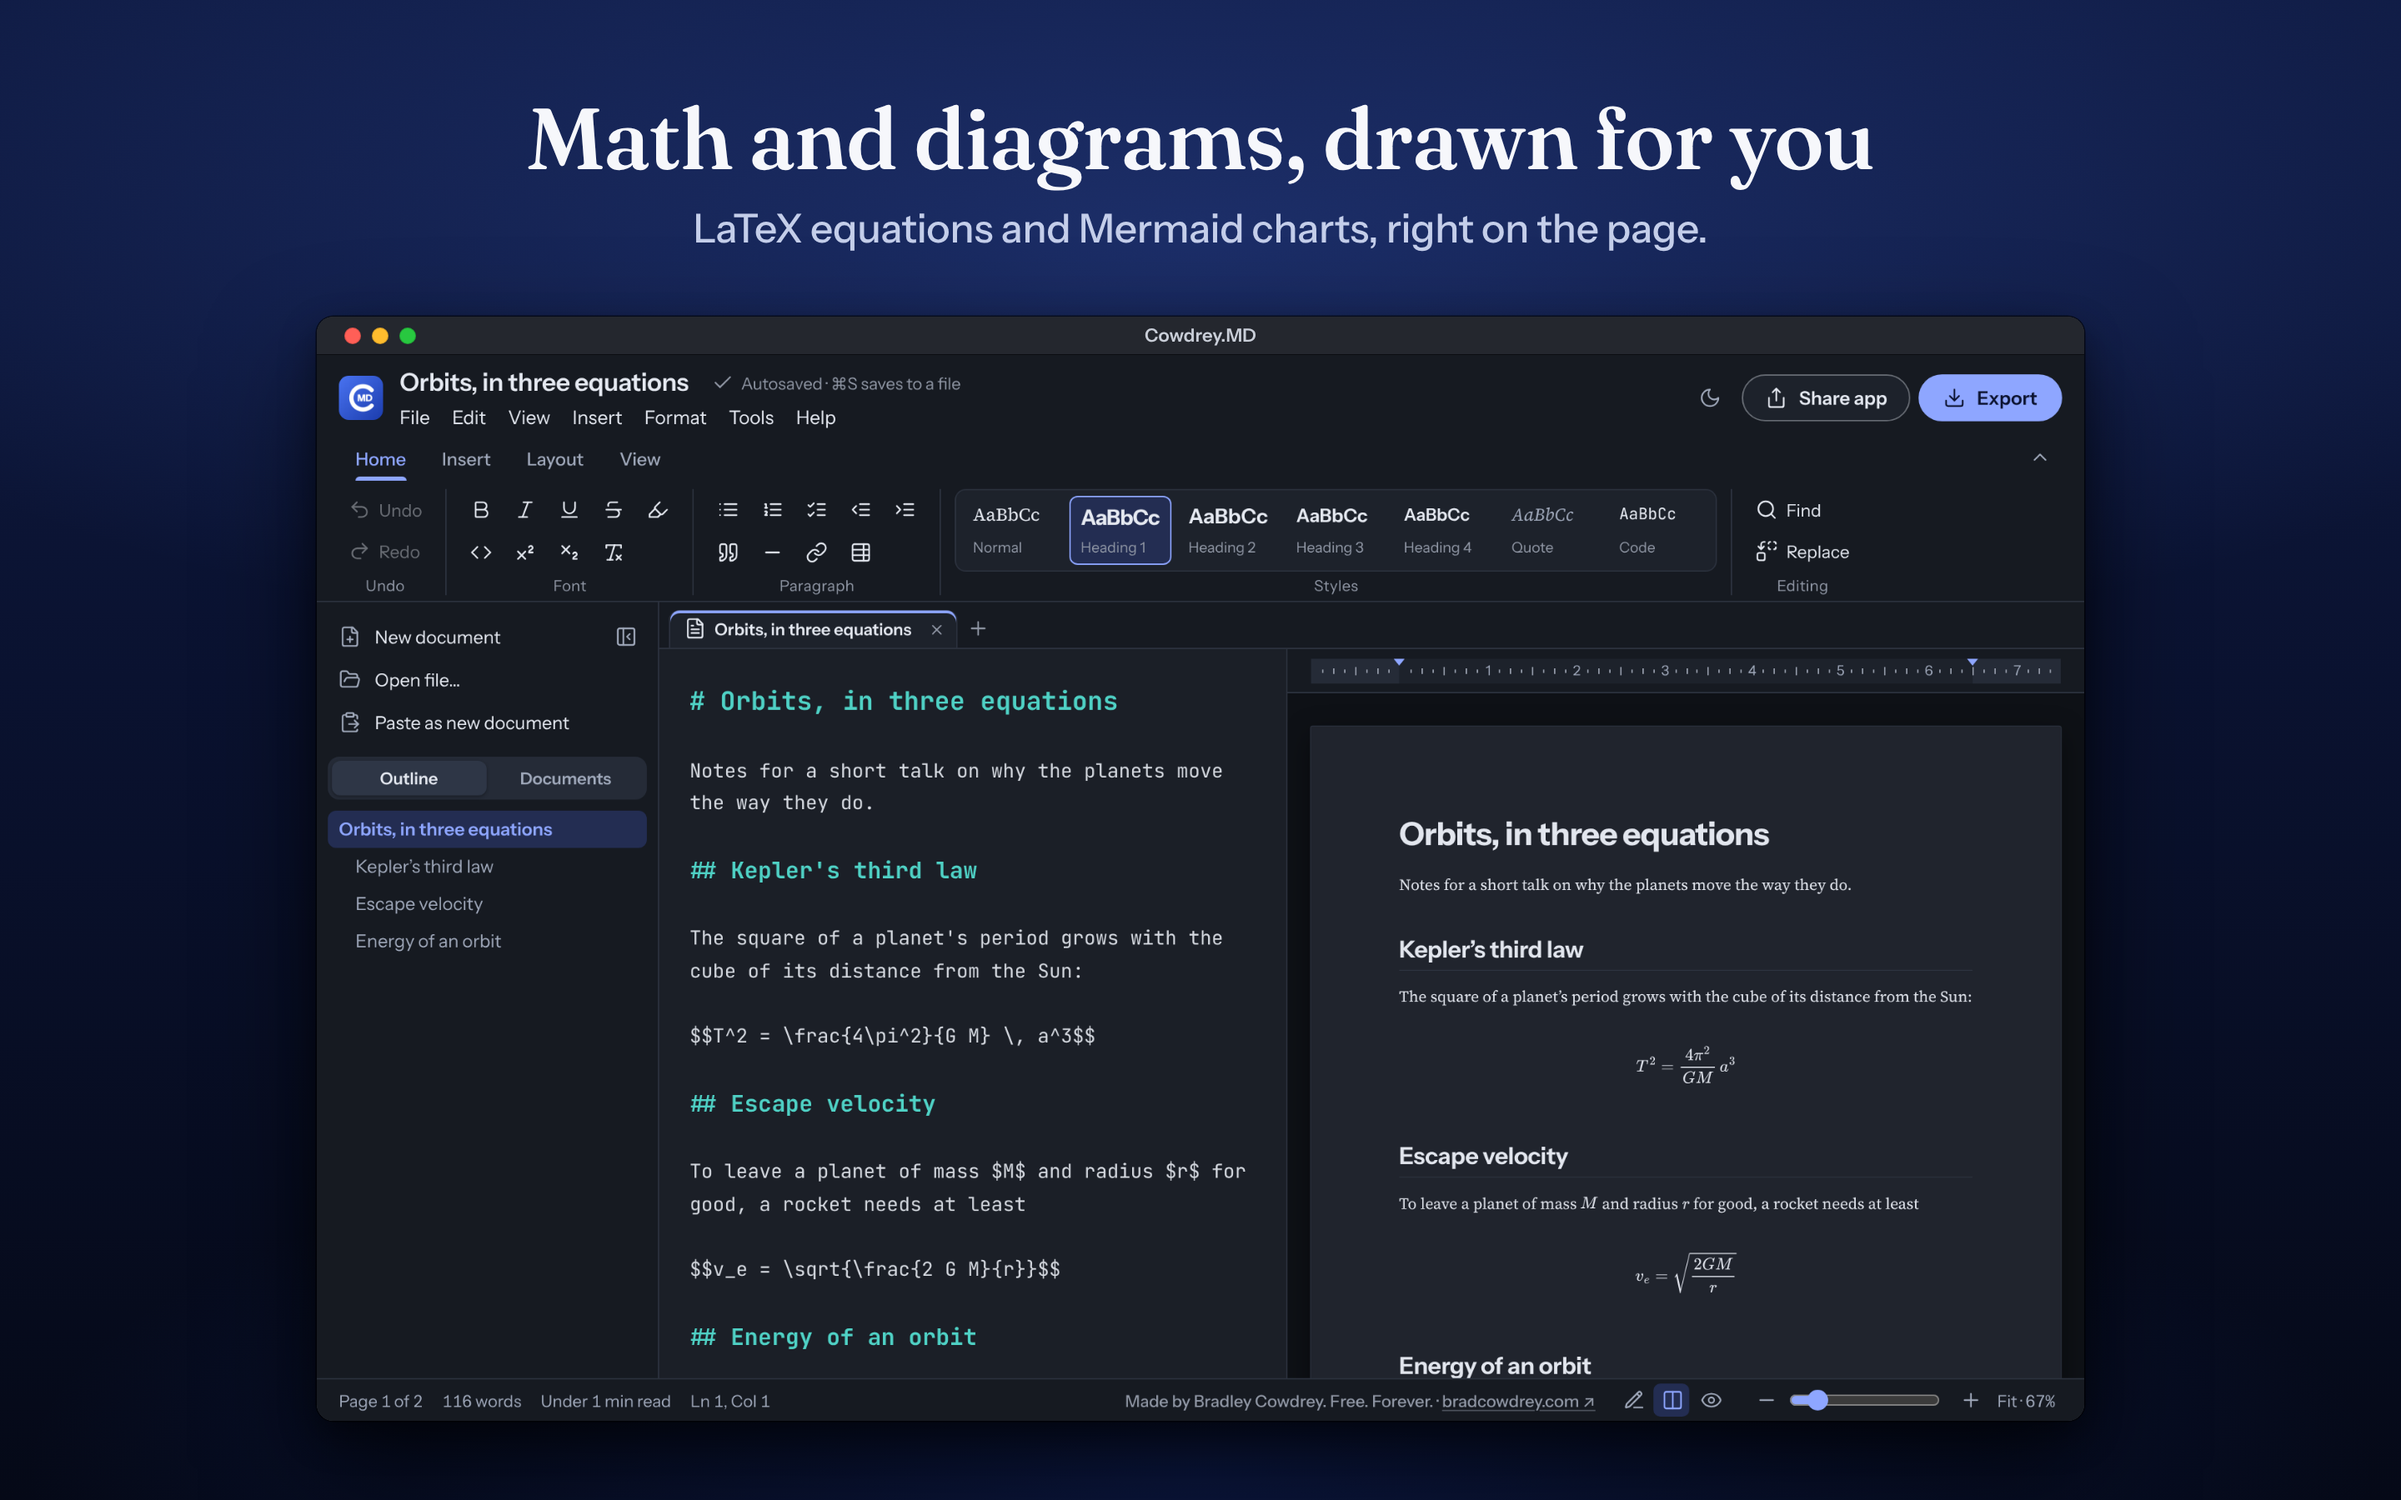
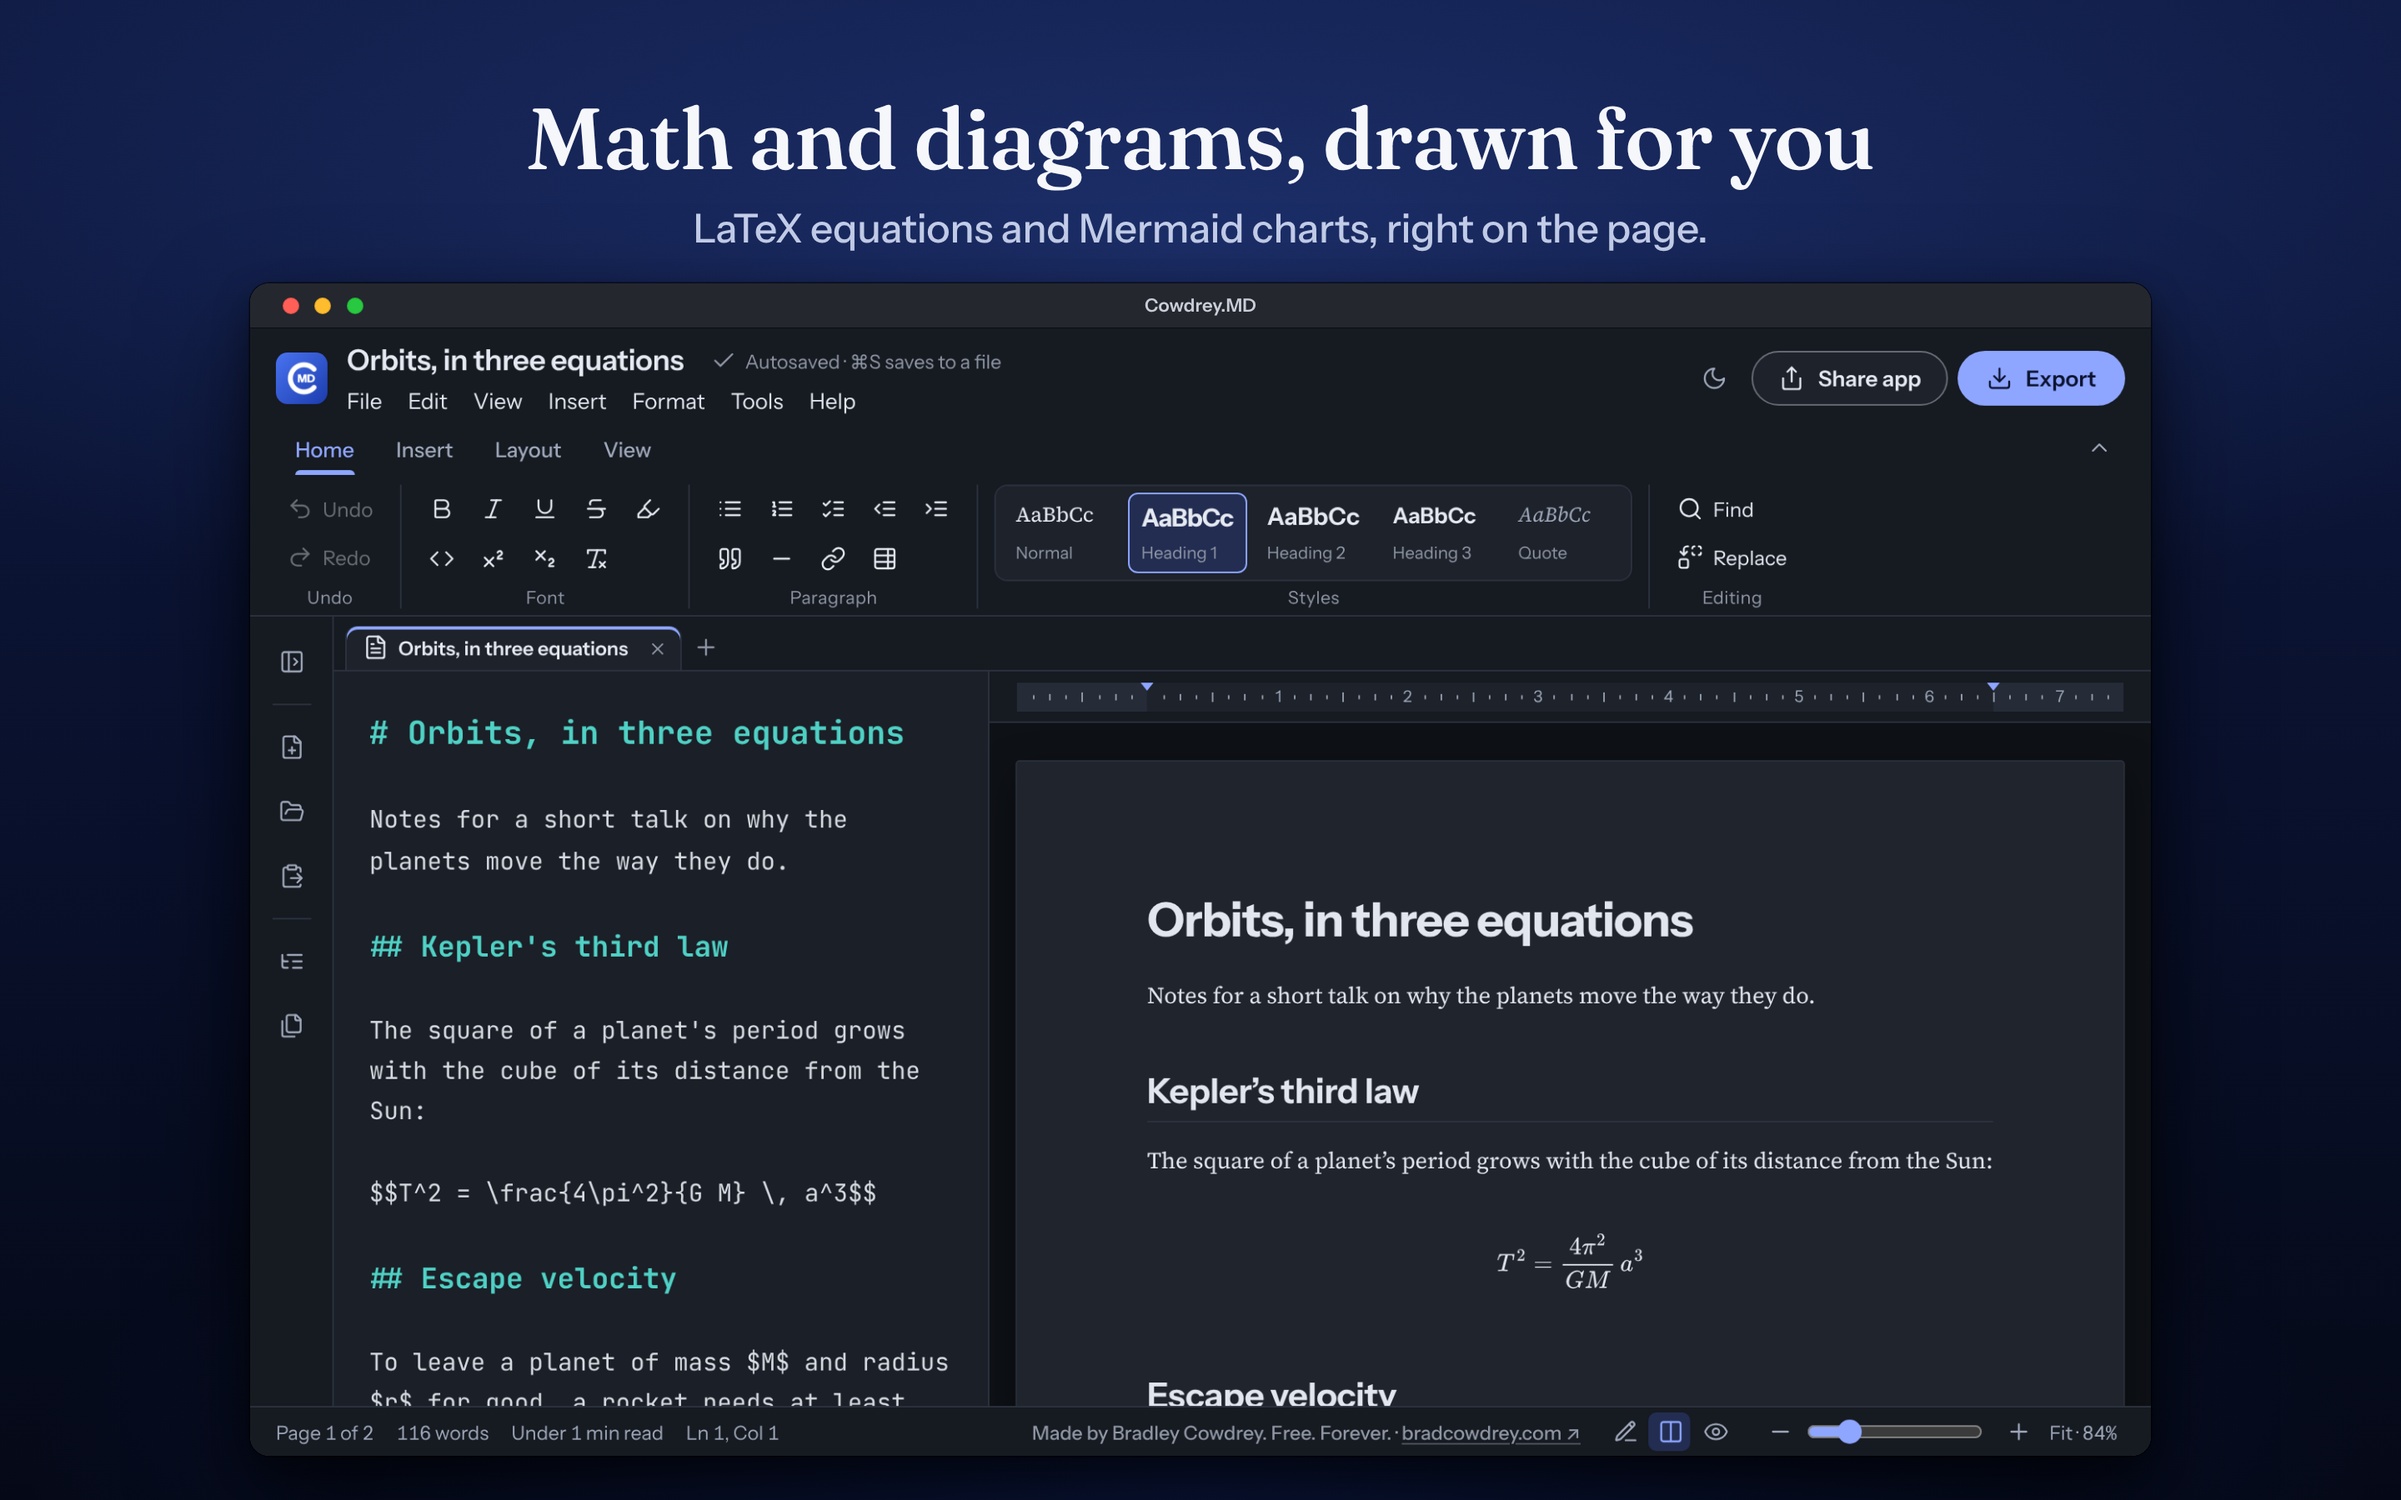
Screenshots: copy that matches the picture, larger text on iPad and Mac
- iPhone 2 headline is now "Format in one tap" (the screen shows Markdown, so
  "without the code" promised the opposite); sub-line "from the bar".
- The lead story says "Write Markdown. See the page." on iPhone, iPad and Mac.
- iPad follows the Mac's order: split, styles, math, files, page, export
  (files renamed to their slots; listing.json and listing.md iPad order only).
- iPad 1-3: outline folded, editor at 16 px, ribbon folded on 1 and 3, so the
  Markdown and the page read at thumbnail size.
- Mac 1-3: outline folded and the page given most of the window (Fit 84%).
- Mac window in the shared frame is now x 300-2580, the app at 1180 x 700 pt
  (store-frame.mjs, identical in Cowdrey.PDF); all six Mac shots redone, and
  the Export menu in mac-6 no longer covers the page title.

Claude-Session: https://claude.ai/code/session_014fP66dMfGbhVNUrPp9snee

diff --git a/docs/app-store/listing.md b/docs/app-store/listing.md
@@ -116,7 +116,7 @@ Already answered in the build (ITSAppUsesNonExemptEncryption = NO), so App Store
 Upload from `docs/app-store/` in this repository:
 
 - **iPhone 6.9" display** (1320 × 2868): `iphone-1-page.png`, `iphone-2-write.png`, `iphone-3-math.png`, `iphone-4-styles.png`, `iphone-5-files.png`, `iphone-6-export.png`
-- **iPad 13" display** (2064 × 2752): `ipad-1-split.png`, `ipad-2-math.png`, `ipad-3-page.png`, `ipad-4-files.png`, `ipad-5-styles.png`, `ipad-6-export.png`
+- **iPad 13" display** (2064 × 2752): `ipad-1-split.png`, `ipad-2-styles.png`, `ipad-3-math.png`, `ipad-4-files.png`, `ipad-5-page.png`, `ipad-6-export.png`
 - **Mac** (2880 × 1800): `mac-1-split.png`, `mac-2-styles.png`, `mac-3-math.png`, `mac-4-files.png`, `mac-5-page.png`, `mac-6-export.png`
 
 Apple scales these down for smaller iPhones and iPads. All are dark mode, made from the real app by `node tests/app-store-screens.mjs` (see the top of that file).
